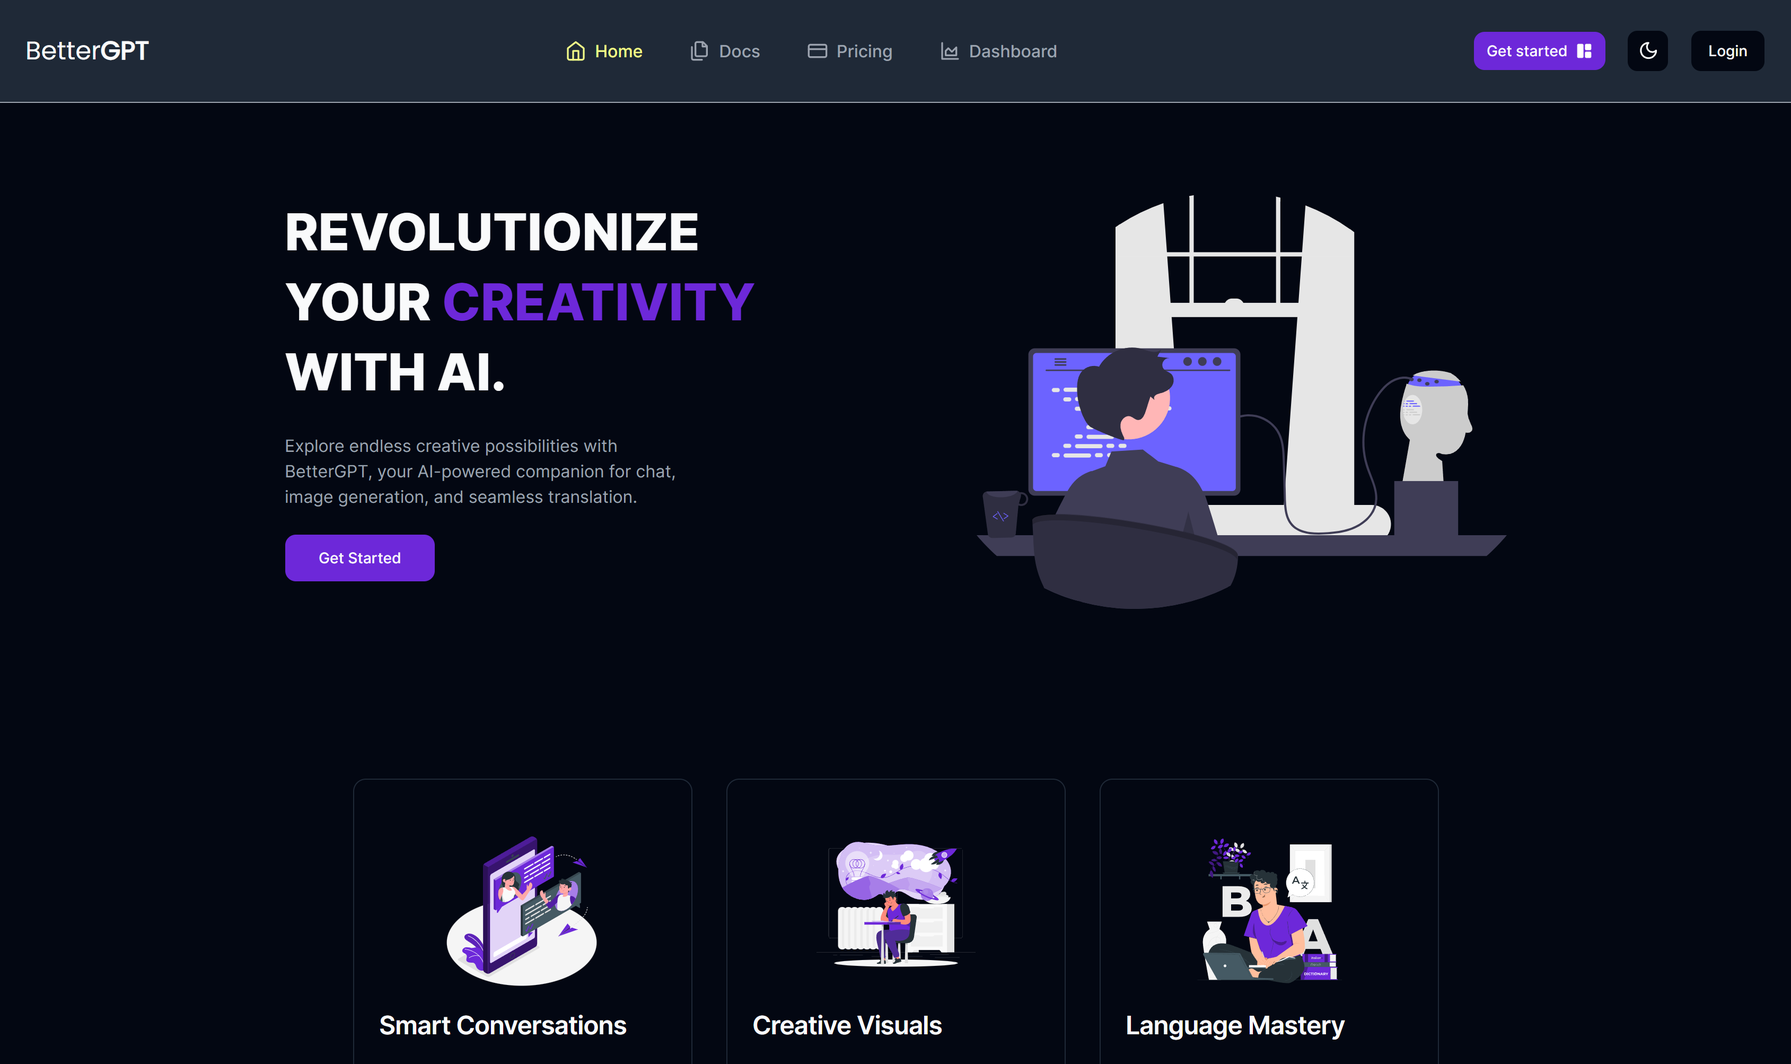
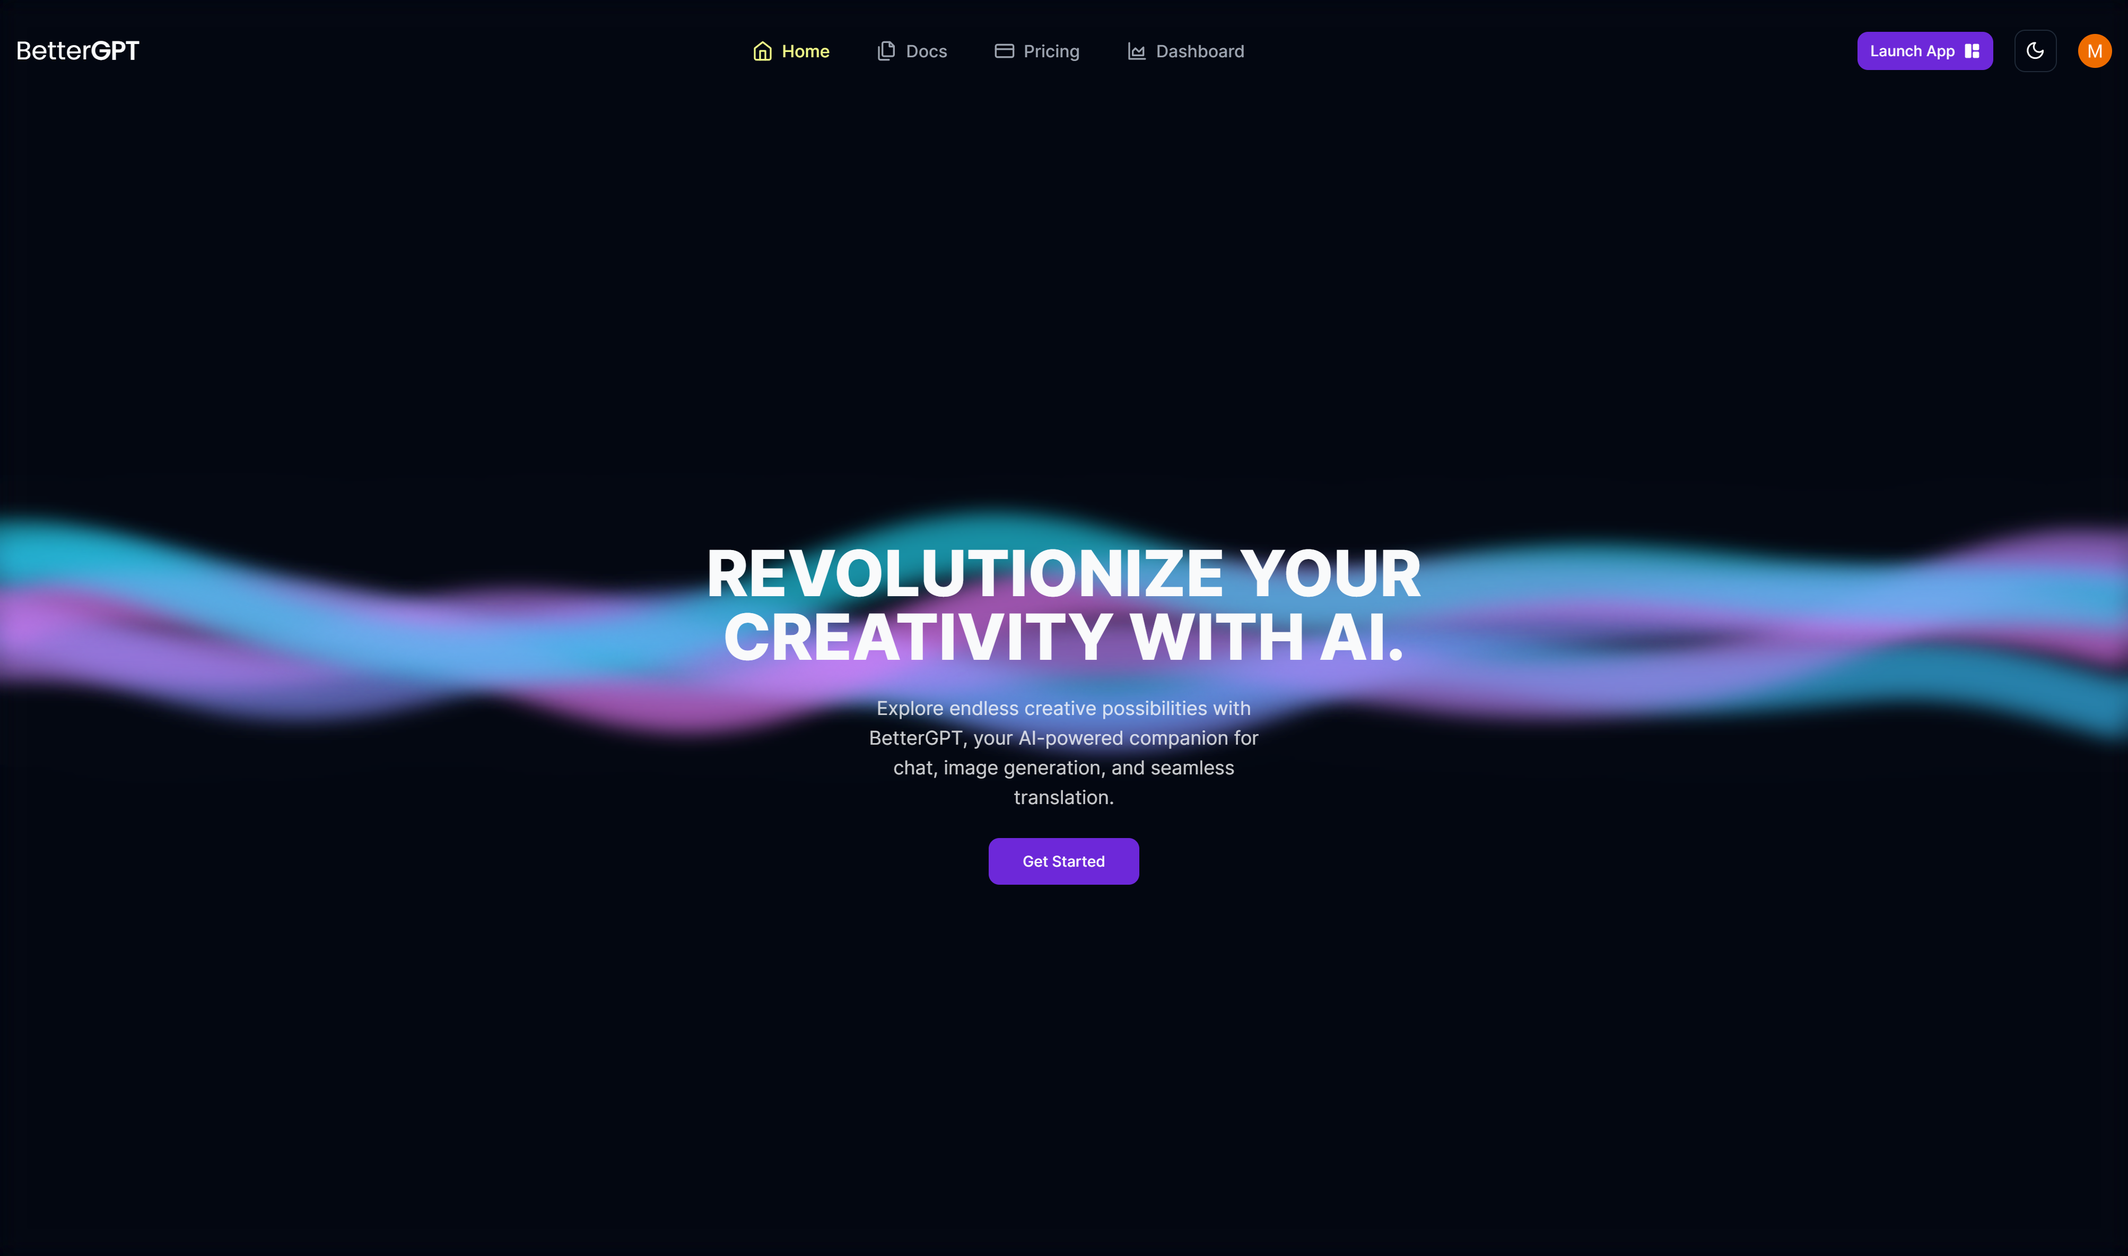
extended hero section

diff --git a/app/(root)/sections/extended-features.tsx b/app/(root)/sections/extended-features.tsx
@@ -1,0 +1,156 @@
+import { buttonVariants } from '@/components/ui/button'
+import { CheckCircle } from 'lucide-react'
+import Image from 'next/image'
+import Link from 'next/link'
+
+const ExtendedFeatures = () => {
+  return (
+    <div className='space-y-32'>
+      <div className='grid md:grid-cols-2 h-full gap-32'>
+        <div className='hidden md:grid grid-cols-2 grid-rows-2 gap-4 h-[600px]'>
+          <div className='row-span-2 relative'>
+            <Image
+              className='absolute inset-0 w-full h-full object-cover rounded-xl'
+              src='/assets/ai/knight.jpg'
+              alt="Imagine a character with the essence of a medieval monster hunter, now walking through the bustling streets of a neon-drenched, futuristic city. This character, inspired by the archetype of a seasoned warrior, is dressed in futuristic armor that combines elements of traditional combat readiness with high-tech flair. The armor is sleek, with LED lighting tracing its contours, providing an aura of otherworldly energy. The character carries advanced weaponry that echoes the design of medieval swords, but with a cybernetic twist, featuring glowing edges and intricate circuitry patterns. Their appearance is further enhanced with cybernetic enhancements visible around the eyes, giving them an enhanced, almost supernatural gaze that pierces through the neon glow of the city. The character's hair is styled to blend seamlessly into this world, with a modern yet timeless look that bridges their origins with their current surroundings. The backdrop is a vibrant cyberpunk city, alive with the hum of advanced technology and the glow of neon signs. Skyscrapers tower above, adorned with holographic displays and surrounded by flying vehicles. The atmosphere is thick with the promise of futuristic adventures and challenges, setting the stage for this character's journey through a world where technology and traditional heroism intertwine. The focus is on the seamless integration of a traditionally medieval character into the cyberpunk setting, highlighting their adaptation and the blending of genres to create a visually compelling narrative."
+              fill
+            />
+          </div>
+          <div className='relative'>
+            <Image
+              className='absolute inset-0 w-full h-full object-cover rounded-xl'
+              src='/assets/ai/nike.jpg'
+              alt="Imagine a highly detailed and meticulously crafted Nike Jordan sneaker, constructed entirely out of LEGO bricks, standing proudly as a testament to both sneaker culture and LEGO creativity. This LEGO masterpiece captures the iconic silhouette of the Jordan, featuring its classic high-top design. The LEGO bricks used range in colors to perfectly match the original sneaker's color scheme, with the primary palette being vivid reds, stark blacks, and pristine whites, mirroring a popular Jordan colorway. The sneaker's texture is cleverly replicated using LEGO pieces of various sizes, showcasing the sneaker's famous leather panels, the lace locks, and the unique perforations for breathability. Special attention is paid to the iconic 'Jumpman' logo, recreated with an intricate arrangement of smaller LEGO pieces in a contrasting color to stand out against the shoe's backdrop. The shoe rests on a sleek, flat surface, resembling a display stand, highlighting its status as a collectible piece. The background is intentionally blurred to ensure the focus remains on the LEGO Jordan's intricate details, from the tread pattern on the sole to the realistic curvature of the toe box, demonstrating an innovative blend of sneaker culture and LEGO craftsmanship."
+              fill
+            />
+          </div>
+          <div className='relative'>
+            <Image
+              className='absolute inset-0 w-full h-full object-cover rounded-xl'
+              src='/assets/ai/btc.jpg'
+              alt={`Envision a majestic figure standing at the heart of a sprawling digital cosmos, embodying the transformative power and sovereignty of Bitcoin. This character, named "Bit," transcends mere human form, presenting as a deity of the digital age, a god of decentralized finance and technological innovation. "Bit" is draped in garments that shimmer with an otherworldly glow, blending ethereal elegance with the aesthetic of cutting-edge technology. The fabric of their attire seems to be woven from the very essence of digital data, adorned with motifs of circuitry and binary code, glowing with the luster of liquid gold. Dominating "Bit's" divine appearance is a magnificent golden chain, each link forged from the symbolic representation of blockchain blocks. This chain wraps around their form, not merely as adornment but as a profound emblem of blockchain's indomitable strength and connectivity. It radiates a brilliant light, casting patterns that resemble the interconnected network of a blockchain, signifying the unbreakable bond and transparency that the technology represents. "Bit" holds their hands aloft, from which emanates an aura of golden light, illuminating the cyberspace around them. In this light, visions of digital transactions and cryptographic sequences dance, symbolizing the seamless and secure exchange of information and value that Bitcoin enables. Their gaze is wise and penetrating, reflecting a deep understanding of both the potential and challenges of the digital age. The realm around "Bit" is a spectacular vista of cyberspace, where the physical and digital merge in harmony. Binary rain falls softly, blending into the ether, while digital landscapes stretch out into infinity, representing the boundless possibilities of the blockchain. Above all, "Bit" stands as a guardian and guide, a deity whose domain is the ever-expanding universe of digital finance, offering a vision of a future where freedom, equality, and security reign supreme in the world of decentralized currency`}
+              fill
+            />
+          </div>
+        </div>
+        <div className='text-left space-y-12'>
+          <h2 className='text-5xl font-extrabold'>
+            Generating Images with Stable Diffusion
+          </h2>
+          <div className='md:hidden grid grid-cols-2 grid-rows-2 gap-4 h-[450px]'>
+            <div className='row-span-2 relative'>
+              <Image
+                className='absolute inset-0 w-full h-full object-cover rounded-xl'
+                src='/assets/ai/knight.jpg'
+                alt="Imagine a character with the essence of a medieval monster hunter, now walking through the bustling streets of a neon-drenched, futuristic city. This character, inspired by the archetype of a seasoned warrior, is dressed in futuristic armor that combines elements of traditional combat readiness with high-tech flair. The armor is sleek, with LED lighting tracing its contours, providing an aura of otherworldly energy. The character carries advanced weaponry that echoes the design of medieval swords, but with a cybernetic twist, featuring glowing edges and intricate circuitry patterns. Their appearance is further enhanced with cybernetic enhancements visible around the eyes, giving them an enhanced, almost supernatural gaze that pierces through the neon glow of the city. The character's hair is styled to blend seamlessly into this world, with a modern yet timeless look that bridges their origins with their current surroundings. The backdrop is a vibrant cyberpunk city, alive with the hum of advanced technology and the glow of neon signs. Skyscrapers tower above, adorned with holographic displays and surrounded by flying vehicles. The atmosphere is thick with the promise of futuristic adventures and challenges, setting the stage for this character's journey through a world where technology and traditional heroism intertwine. The focus is on the seamless integration of a traditionally medieval character into the cyberpunk setting, highlighting their adaptation and the blending of genres to create a visually compelling narrative."
+                fill
+              />
+            </div>
+            <div className='relative'>
+              <Image
+                className='absolute inset-0 w-full h-full object-cover rounded-xl'
+                src='/assets/ai/nike.jpg'
+                alt="Imagine a highly detailed and meticulously crafted Nike Jordan sneaker, constructed entirely out of LEGO bricks, standing proudly as a testament to both sneaker culture and LEGO creativity. This LEGO masterpiece captures the iconic silhouette of the Jordan, featuring its classic high-top design. The LEGO bricks used range in colors to perfectly match the original sneaker's color scheme, with the primary palette being vivid reds, stark blacks, and pristine whites, mirroring a popular Jordan colorway. The sneaker's texture is cleverly replicated using LEGO pieces of various sizes, showcasing the sneaker's famous leather panels, the lace locks, and the unique perforations for breathability. Special attention is paid to the iconic 'Jumpman' logo, recreated with an intricate arrangement of smaller LEGO pieces in a contrasting color to stand out against the shoe's backdrop. The shoe rests on a sleek, flat surface, resembling a display stand, highlighting its status as a collectible piece. The background is intentionally blurred to ensure the focus remains on the LEGO Jordan's intricate details, from the tread pattern on the sole to the realistic curvature of the toe box, demonstrating an innovative blend of sneaker culture and LEGO craftsmanship."
+                fill
+              />
+            </div>
+            <div className='relative'>
+              <Image
+                className='absolute inset-0 w-full h-full object-cover rounded-xl'
+                src='/assets/ai/btc.jpg'
+                alt={`Envision a majestic figure standing at the heart of a sprawling digital cosmos, embodying the transformative power and sovereignty of Bitcoin. This character, named "Bit," transcends mere human form, presenting as a deity of the digital age, a god of decentralized finance and technological innovation. "Bit" is draped in garments that shimmer with an otherworldly glow, blending ethereal elegance with the aesthetic of cutting-edge technology. The fabric of their attire seems to be woven from the very essence of digital data, adorned with motifs of circuitry and binary code, glowing with the luster of liquid gold. Dominating "Bit's" divine appearance is a magnificent golden chain, each link forged from the symbolic representation of blockchain blocks. This chain wraps around their form, not merely as adornment but as a profound emblem of blockchain's indomitable strength and connectivity. It radiates a brilliant light, casting patterns that resemble the interconnected network of a blockchain, signifying the unbreakable bond and transparency that the technology represents. "Bit" holds their hands aloft, from which emanates an aura of golden light, illuminating the cyberspace around them. In this light, visions of digital transactions and cryptographic sequences dance, symbolizing the seamless and secure exchange of information and value that Bitcoin enables. Their gaze is wise and penetrating, reflecting a deep understanding of both the potential and challenges of the digital age. The realm around "Bit" is a spectacular vista of cyberspace, where the physical and digital merge in harmony. Binary rain falls softly, blending into the ether, while digital landscapes stretch out into infinity, representing the boundless possibilities of the blockchain. Above all, "Bit" stands as a guardian and guide, a deity whose domain is the ever-expanding universe of digital finance, offering a vision of a future where freedom, equality, and security reign supreme in the world of decentralized currency`}
+                fill
+              />
+            </div>
+          </div>
+          <p className=''>
+            Enter a world where your words paint pictures. From
+            abstract concepts to detailed scenes, our AI brings your
+            vision to life with stunning accuracy and creativity.
+          </p>
+          <ul className='space-y-4'>
+            <li className='flex items-center'>
+              <CheckCircle className='h-4 w-4 mr-3 text-accent' />
+              High-quality image generation from text descriptions.
+            </li>
+            <li className='flex items-center'>
+              <CheckCircle className='h-4 w-4 mr-3 text-accent' />
+              Ideal for creative projects, marketing materials, and
+              content creation.
+            </li>
+            <li className='flex items-center'>
+              <CheckCircle className='h-4 w-4 mr-3 text-accent' />
+              User-friendly interface with customizable options.
+            </li>
+          </ul>
+          <Link
+            href='/app/images/generate'
+            className={buttonVariants({
+              variant: 'secondary',
+              size: 'lg',
+            })}
+          >
+            Create your own
+          </Link>
+        </div>
+      </div>
+      {/* Custom models */}
+      <div className='grid md:grid-cols-2 h-full gap-32'>
+        <div className='text-left space-y-12'>
+          <h2 className='text-5xl font-extrabold'>
+            Custom LLM Model for Your Use Case
+          </h2>
+          <div className='md:hidden h-[450px]'>
+            <Image
+              className='w-full h-full object-cover rounded-xl'
+              src='/assets/ai/custom-model.jpg'
+              alt='AI custom model'
+              width={450}
+              height={450}
+            />
+          </div>
+          <p className=''>
+            Don&apos;t just use AI—shape it to fit your vision. Our
+            customizable Language Learning Models offer unparalleled
+            flexibility and power for any application.
+          </p>
+          <ul className='space-y-4'>
+            <li className='flex items-center'>
+              <CheckCircle className='h-4 w-4 mr-3 text-accent' />
+              Customize models for specialized tasks.
+            </li>
+            <li className='flex items-center'>
+              <CheckCircle className='h-4 w-4 mr-3 text-accent' />
+              Integrates with existing systems and workflows.
+            </li>
+            <li className='flex items-center'>
+              <CheckCircle className='h-4 w-4 mr-3 text-accent' />
+              Scalable solutions for businesses, academia, and
+              development.
+            </li>
+          </ul>
+          <Link
+            href='/app/chat'
+            className={buttonVariants({
+              variant: 'secondary',
+              size: 'lg',
+            })}
+          >
+            Get started
+          </Link>
+        </div>
+        <div className='hidden md:block h-[600px]'>
+          <Image
+            className='w-full h-full object-cover rounded-xl'
+            src='/assets/ai/custom-model.jpg'
+            alt='AI custom model'
+            width={600}
+            height={600}
+          />
+        </div>
+      </div>
+    </div>
+  )
+}
+
+export default ExtendedFeatures

diff --git a/components/ui/wavy-background.tsx b/components/ui/wavy-background.tsx
@@ -1,5 +1,6 @@
 'use client'
 import { cn } from '@/lib/utils'
+import { useTheme } from 'next-themes'
 import React, { useEffect, useRef } from 'react'
 import { createNoise3D } from 'simplex-noise'
 
@@ -26,7 +27,10 @@ export const WavyBackground = ({
   waveOpacity?: number
   [key: string]: any
 }) => {
+  const { theme } = useTheme()
+
   const noise = createNoise3D()
+
   let w: number,
     h: number,
     nt: number,
@@ -34,7 +38,9 @@ export const WavyBackground = ({
     x: number,
     ctx: any,
     canvas: any
+
   const canvasRef = useRef<HTMLCanvasElement>(null)
+
   const getSpeed = () => {
     switch (speed) {
       case 'slow':
@@ -49,7 +55,24 @@ export const WavyBackground = ({
   const init = () => {
     canvas = canvasRef.current
     ctx = canvas.getContext('2d')
-    w = ctx.canvas.width = window.innerWidth
+
+    const getScrollbarWidth = () => {
+      const outer = document.createElement('div')
+      outer.style.visibility = 'hidden'
+      outer.style.overflow = 'scroll'
+      document.body.appendChild(outer)
+
+      const inner = document.createElement('div')
+      outer.appendChild(inner)
+
+      const scrollbarWidth = outer.offsetWidth - inner.offsetWidth
+
+      outer!.parentNode!.removeChild(outer)
+
+      return scrollbarWidth
+    }
+
+    w = ctx.canvas.width = window.innerWidth - getScrollbarWidth()
     h = ctx.canvas.height = window.innerHeight
     ctx.filter = `blur(${blur}px)`
     nt = 0
@@ -85,7 +108,8 @@ export const WavyBackground = ({
 
   let animationId: number
   const render = () => {
-    ctx.fillStyle = backgroundFill || 'black'
+    ctx.fillStyle =
+      backgroundFill || theme === 'dark' ? '#030712' : '#FFFFFF'
     ctx.globalAlpha = waveOpacity || 0.5
     ctx.fillRect(0, 0, w, h)
     drawWave(5)
@@ -97,7 +121,7 @@ export const WavyBackground = ({
     return () => {
       cancelAnimationFrame(animationId)
     }
-  }, [])
+  }, [theme])
 
   return (
     <div

diff --git a/app/(root)/page.tsx b/app/(root)/page.tsx
@@ -1,15 +1,10 @@
-import {
-  Accordion,
-  AccordionContent,
-  AccordionItem,
-  AccordionTrigger,
-} from '@/components/ui/accordion'
 import { Separator } from '@/components/ui/separator'
 import Hero from './sections/hero'
 import Testimonials from './sections/testimonials'
 import Features from './sections/features'
 import Pricing from './sections/pricing'
 import Faq from './sections/faq'
+import ExtendedFeatures from './sections/extended-features'
 
 const RootPage = async () => {
   return (
@@ -17,12 +12,17 @@ const RootPage = async () => {
       <section>
         <Hero />
       </section>
+
       <section className='mb-40'>
         <Testimonials />
       </section>
 
-      <section className='max-w-6xl mx-auto px-4 md:px-16'>
+      <section className='max-w-6xl mx-auto px-4'>
         <Features />
+      </section>
+
+      <section className='max-w-6xl mx-auto px-4 mt-40'>
+        <ExtendedFeatures />
       </section>
 
       <section className='mt-40 max-w-7xl mx-auto'>

diff --git a/app/(root)/sections/hero.tsx b/app/(root)/sections/hero.tsx
@@ -4,22 +4,13 @@ import Link from 'next/link'
 
 const Hero = () => {
   return (
-    <WavyBackground
-      className='mx-auto pb-40'
-      backgroundFill='#030712'
-    >
+    <WavyBackground className='mx-auto pb-40'>
       <div className='text-center'>
         <h1 className='text-3xl md:text-6xl uppercase font-extrabold leading-snug'>
           Revolutionize your <br />
-          <span
-            className='text-primary
-            '
-          >
-            creativity
-          </span>{' '}
-          with AI.
+          <span className='text-foreground'>creativity</span> with AI.
         </h1>
-        <p className='text-sm md:text-lg max-w-sm mt-6 text-muted-foreground mx-auto '>
+        <p className='text-sm md:text-lg max-w-sm mt-6 text-foreground/80 mx-auto '>
           Explore endless creative possibilities with BetterGPT, your
           AI-powered companion for chat, image generation, and
           seamless translation.

diff --git a/components/ui/infinite-moving-cards.tsx b/components/ui/infinite-moving-cards.tsx
@@ -96,13 +96,13 @@ export const InfiniteMovingCards = ({
         )}
       >
         {items.map((item, idx) => (
-          <Card className='w-[350px]' key={item.name}>
+          <Card className='w-[200px] md:w-[350px]' key={item.name}>
             <CardHeader>
               <CardTitle>{item.name}</CardTitle>
             </CardHeader>
             <CardContent>
               <blockquote>
-                <span className='text-sm leading-[1.6] text-gray-100 font-normal'>
+                <span className='text-sm leading-[1.6] text-card-foreground font-normal'>
                   {item.quote}
                 </span>
                 <div className='mt-6 flex flex-row items-center'>

diff --git a/app/layout.tsx b/app/layout.tsx
@@ -30,7 +30,7 @@ export default function RootLayout({
         <body className={inter.className}>
           <ThemeProvider
             attribute='class'
-            defaultTheme='system'
+            defaultTheme='dark'
             enableSystem
           >
             <TooltipProvider>
